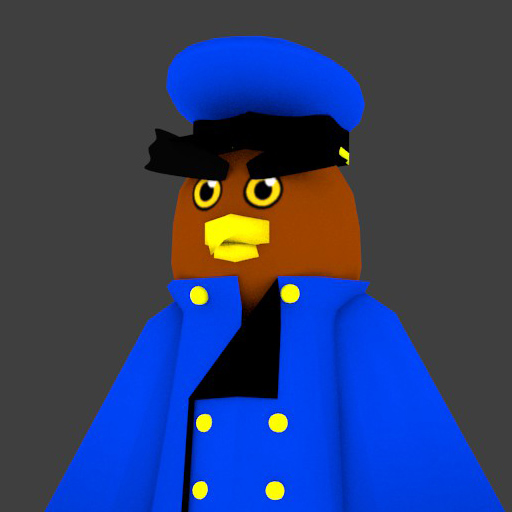
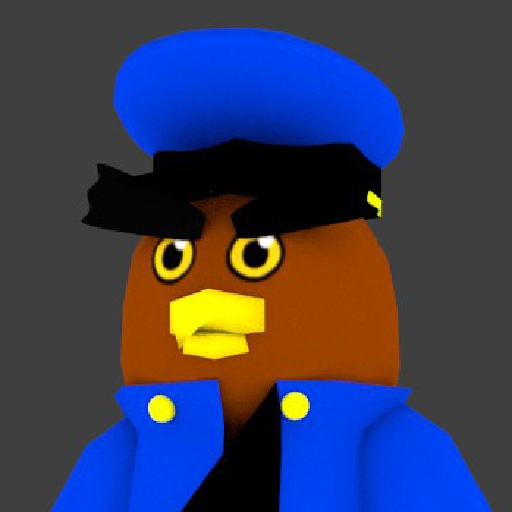
- New Hawk picture. - Bots no longer move diagonally, this fixes some issues with them getting   stuck on walls.

diff --git a/src/p3d/player.py b/src/p3d/player.py
@@ -270,32 +270,20 @@ class player:
 
       self.aiDir = [0,0]
       if x > 1.0: self.aiDir[0] = 1
-      if x < -1.0: self.aiDir[0] = -1
-      if y > 1.0: self.aiDir[1] = 1
-      if y < -1.0: self.aiDir[1] = -1     
+      elif x < -1.0: self.aiDir[0] = -1
+      elif y > 1.0: self.aiDir[1] = 1
+      elif y < -1.0: self.aiDir[1] = -1     
 
       # Determine if any obstacles are ahead
       if self.aiCheckObstacle(self.aiDir):
+        if self.aiDir[0] <> 0:
+          self.aiDir[1] = -self.aiDir[0]
+          self.aiDir[0] = 0
 
-        self.aiLockTarget()
-        if not self.persue: return task.cont
+        elif self.aiDir[1] <> 0:
+          self.aiDir[0] = -self.aiDir[1]
+          self.aiDir[1] = 0      
 
-        for i in range(2):
-          newDir = [self.aiDir[0], self.aiDir[1]]
-          newDir[i] = 0
-          if not self.aiCheckObstacle(newDir):
-            self.aiDir = newDir
-            break
-
-      # If falling don't try to move...
-      if not self.isOnGround:
-        self.aiDir = [0,0]
-
-      # If persuer is falling don't persue...
-      if self.persue.actor.getZ() < 0.0:
-        self.aiDir = [0,0]
-        self.aiLockTarget()
-        if not self.persue: return task.cont
 
       # Evade attacks
       for i in base.players:
@@ -306,7 +294,7 @@ class player:
         
         eneSpeed = i.ode_body.getLinearVel()
 
-        if abs(eneSpeed[0]) > 5.5 or abs(eneSpeed[1]) > 5.5:
+        if abs(eneSpeed[0]) > 5.0 or abs(eneSpeed[1]) > 5.0:
           
           if abs(myTile[0] - eneTile[0]) < 7.0 and abs(myTile[1] - eneTile[1]) < 7.0:
 
@@ -326,16 +314,27 @@ class player:
             if eneTile[0] == myTile[0]:
               for x in range(-1,1):
                 newDir = [x, 0]
-                if self.aiCheckObstacle(newDir):
+                if not self.aiCheckObstacle(newDir):
                   self.aiDir = newDir
                   break
 
             elif eneTile[1] == myTile[1]:
               for x in range(-1,1):
                 newDir = [0, x]
-                if self.aiCheckObstacle(newDir):
+                if not self.aiCheckObstacle(newDir):
                   self.aiDir = newDir
                   break
+
+      # If falling don't try to move...
+      if not self.isOnGround:
+        self.aiDir = [0,0]
+
+      # If persuer is falling don't persue...
+      if self.persue.actor.getZ() < 0.0:
+        self.setMoveVal([.1,.1])
+        self.aiDir = [0,0]
+        self.aiLockTarget()
+        if not self.persue: return task.cont
             
 
       # Update movement if direction has changed

diff --git a/src/p3d/main.py b/src/p3d/main.py
@@ -113,18 +113,20 @@ class ChompinBomper(ShowBase):
     # Load Players
     base.playerid = 0
     base.players = []
-    base.players.append(player.player(character, False, None))
+    base.players.append(player.player(character, True, 1))
     base.players.append(player.player("renoki", False, None))
     base.players.append(player.player("hawk", False, None))
-    #base.players.append(player.player("chompy", False))   
+    base.players.append(player.player("chompy", False, None))   
 
-    base.players[0].ai()
+    #base.players[0].ai()
     base.players[1].ai()
     base.players[2].ai()
+    base.players[3].ai()    
     # Load Camera
     base.gameCam = camera.camera(base.players[0])
     base.gameCam.add(base.players[1])
     base.gameCam.add(base.players[2])    
+    base.gameCam.add(base.players[3])    
 
     # Game Hud
     self.hud = hud.gameHud()

diff --git a/src/p3d/specials.py b/src/p3d/specials.py
@@ -120,14 +120,14 @@ class specials(actions.actions):
       for i in base.players:
         if i == self.player: continue
         tilePos = i.getTilePos()          
-        for x in range(0, hitRange):
+        for x in range(hitRange):
           myTile = self.player.getTilePos()
           for y in range(len(self.player.direction)):
             myTile[y] += float(x) * self.player.direction[y]
  
           if myTile == tilePos:
 
-            power = (self.player.power * 2.0) - (i.resist * 1.5)
+            power = (self.player.power * 2.25) - (i.resist * 1.5)
 
             i.ode_body.setLinearVel(self.player.direction[0] * power, self.player.direction[1] * power, 0)
             i.reduceResist()

diff --git a/src/p3d/actions.py b/src/p3d/actions.py
@@ -181,7 +181,7 @@ class actions:
     if not self.pickupObjIsPlayer and self.pickupObj:
       self.throwInt = ProjectileInterval(self.pickupObj,
                          startPos = self.pickupObj.getPos(),
-                         startVel = Point3(self.thrownDir[0] * 10.0, self.thrownDir[1] * 10.0, 9.0), duration = 1.4)    
+                         startVel = Point3(self.thrownDir[0] * 10.0, self.thrownDir[1] * 10.0, 3.0), duration = 1.4)    
 
       self.throwInt.start()
     
